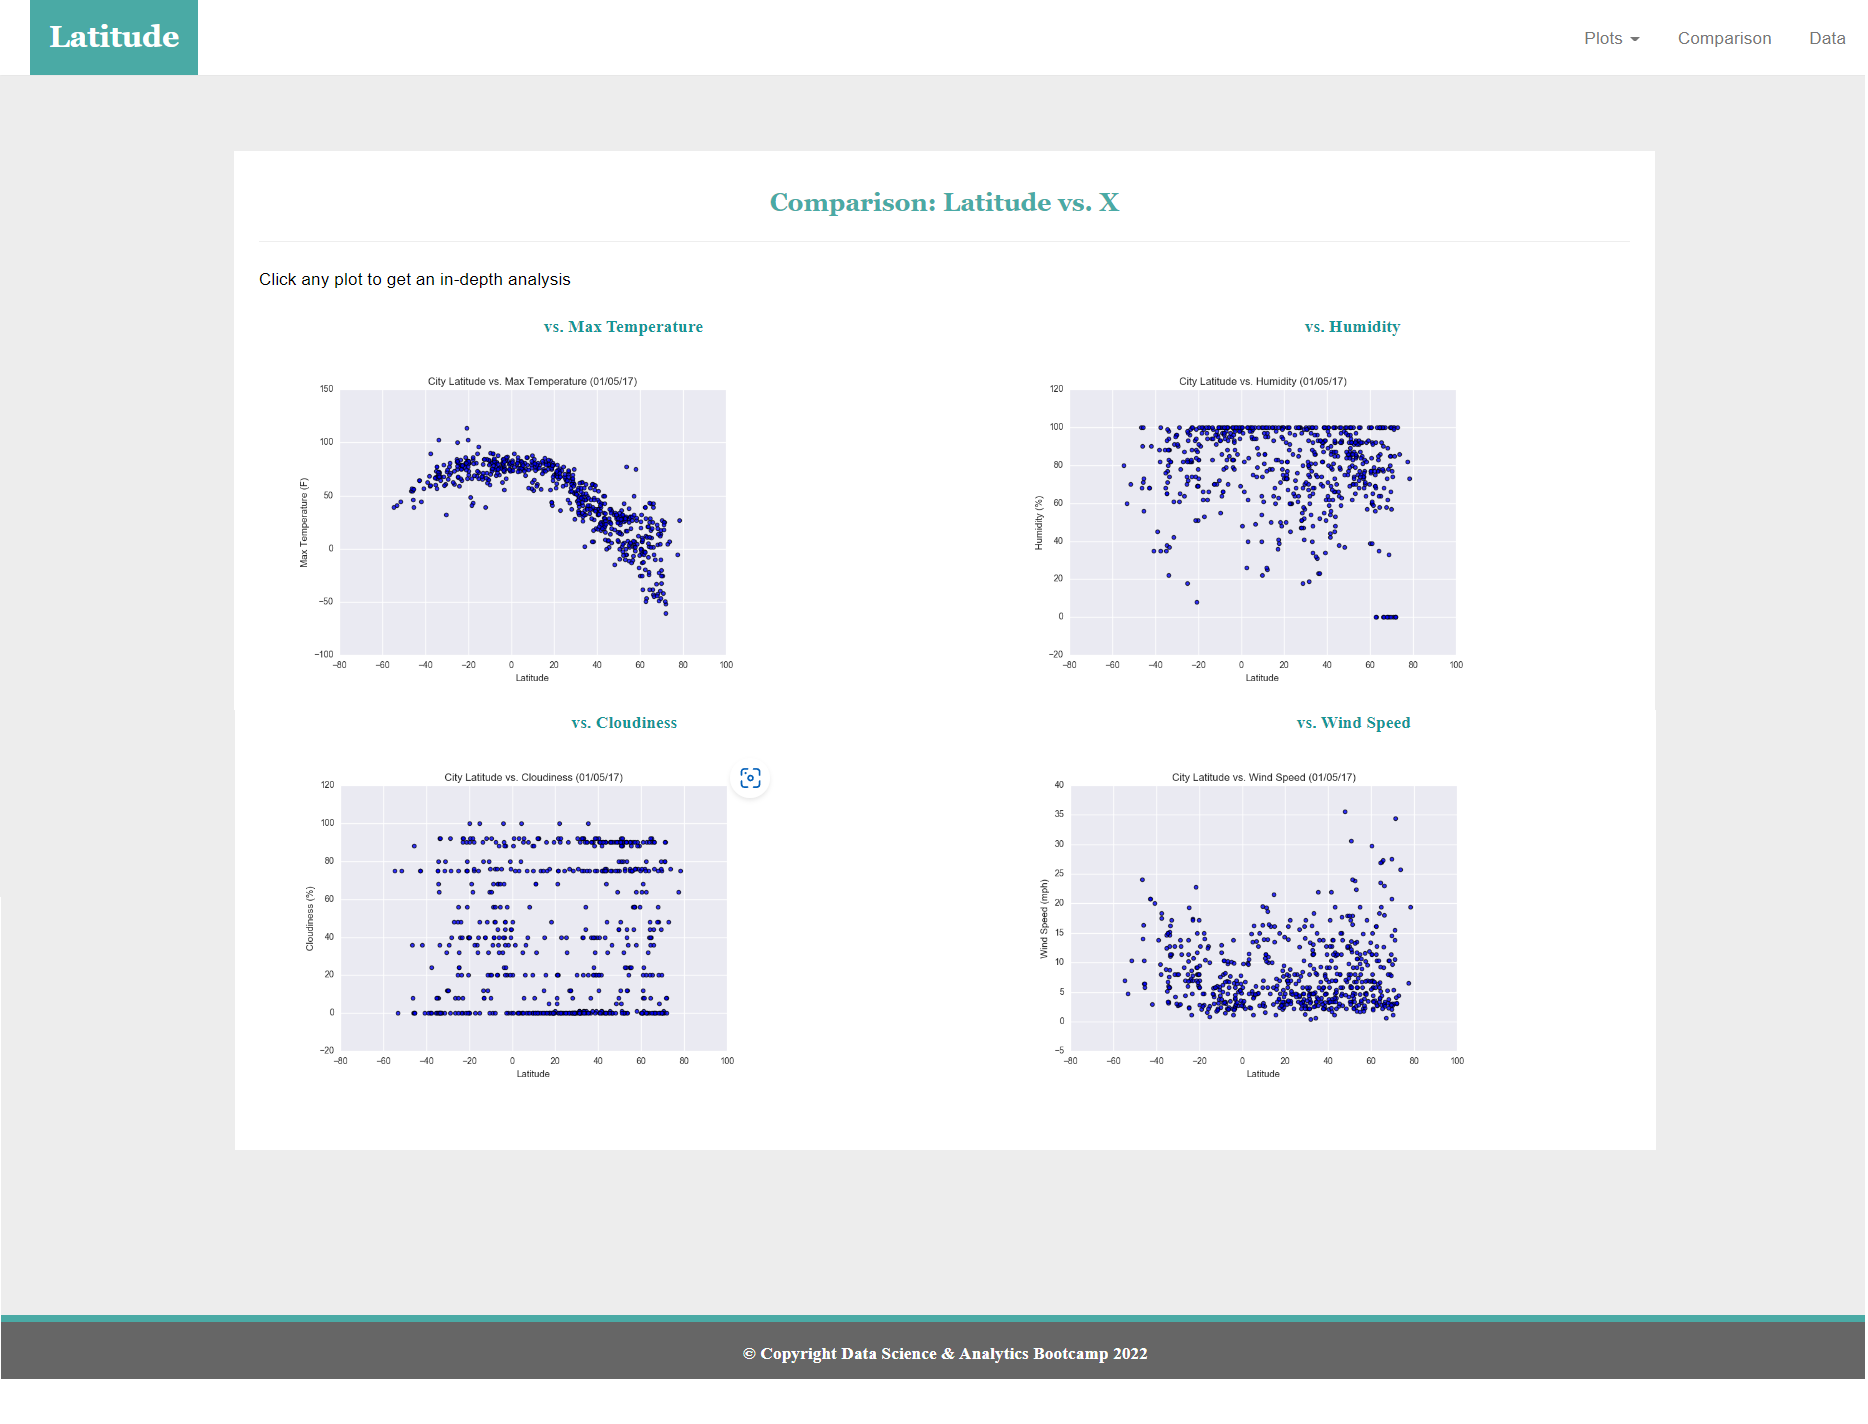
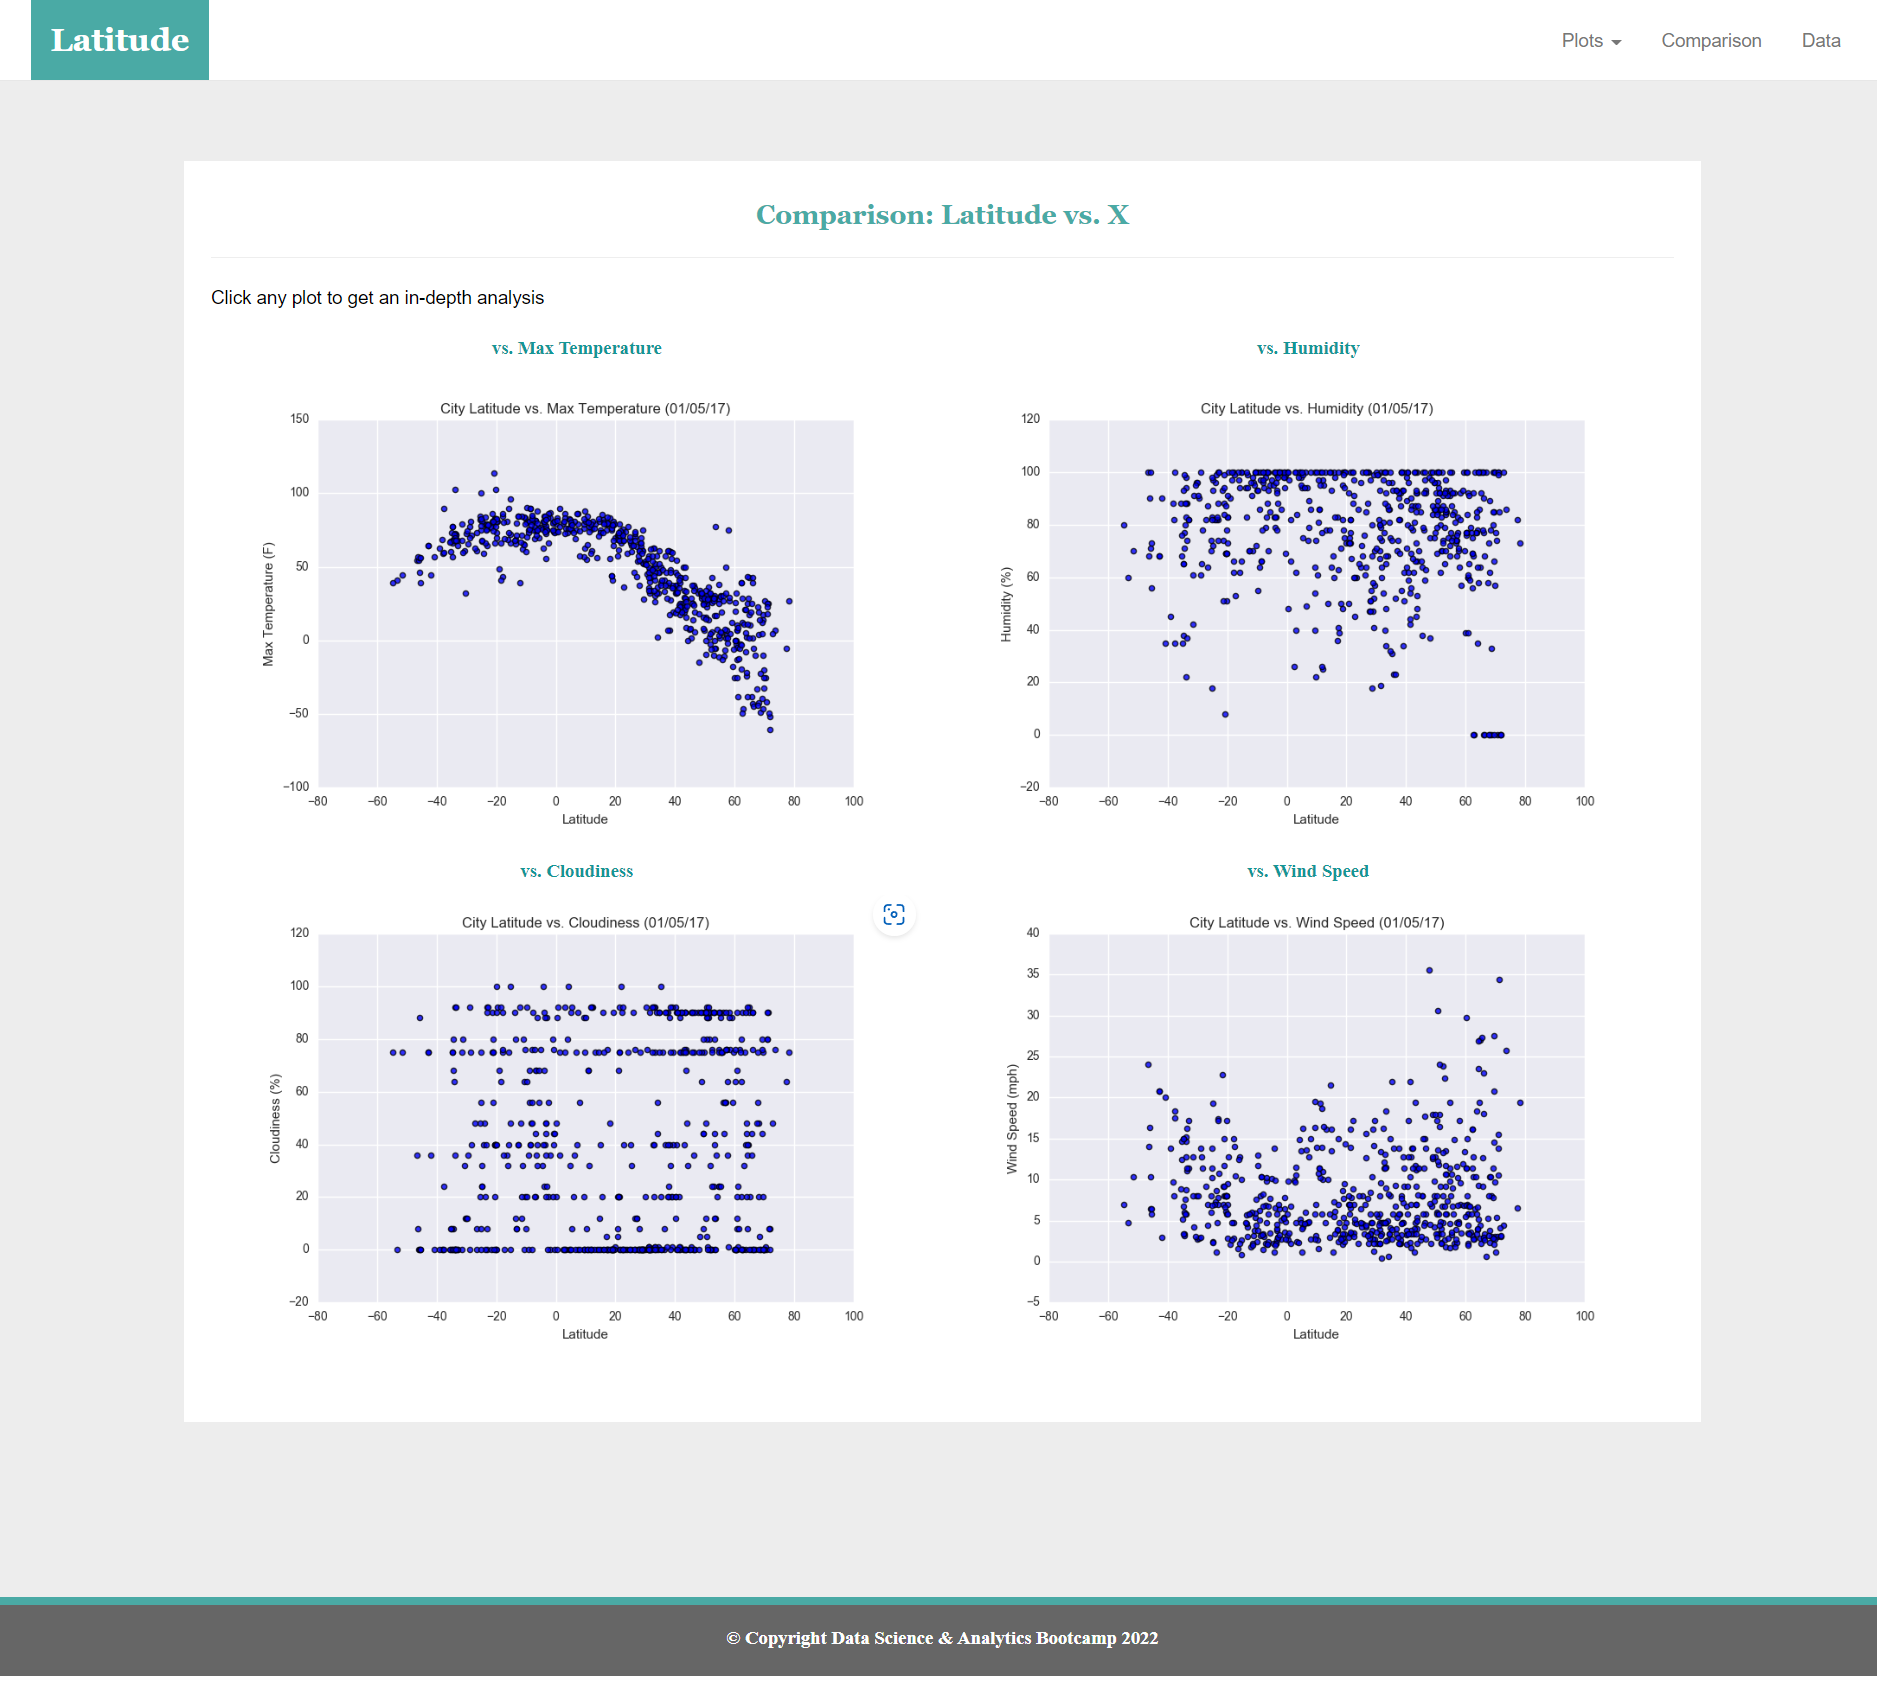
Centered title for the images

diff --git a/comparison.html b/comparison.html
@@ -58,43 +58,43 @@
 
     <!-- Start of container -->
     <div class="container">
-      <div class="row">
-          <div class="box">
+       <div class="box">
             <h3 class="comparison-header text-info">Comparison: Latitude vs. X</h3>
             <hr>
             <p style="font: size 10px;">Click any plot to get an in-depth analysis</p>
             <div class="container-fluid" style="padding-bottom: 30px;">
-            <div class="row imagetiles" > 
-                <div class="col-md-6 col-sm-12" >
+            <div class="row"> 
+                <div class="col-md-6" >
                   <h5 class="text-center">vs. Max Temperature</h5>
                   <a href="visualizations/temp.html">
-                    <img id="images" class = "img-fluid" src="assets/images/Fig1.png" alt="Max Temperature Graph" title="Lat vs. Max Temp" width="400">
+                    <img width="100%" class = "img-fluid" src="assets/images/Fig1.png" alt="Max Temperature Graph" title="Lat vs. Max Temp" width="400">
                   </a>
                 </div>
-                <div class="col-md-6 col-sm-12" >
+                <div class="col-md-6" >
                   <h5 class="text-center">vs. Humidity</h5>
                   <a href="visualizations/humidity.html">
-                    <img id="images" class = "img-fluid" src="assets/images/Fig2.png" alt="Humidity Graph" title="Lat vs. Humidity" width="400">
+                    <img width="100%" class = "img-fluid" src="assets/images/Fig2.png" alt="Humidity Graph" title="Lat vs. Humidity" width="400">
                   </a>
                 </div>
-                         
-                <div class="col-md-6 col-sm-12" >
+              </div>  
+              <div class="row">         
+                <div class="col-md-6" >
                   <h5 class="text-center">vs. Cloudiness</h5>
                   <a href="visualizations/cloudiness.html">
-                    <img id="images" class = "img-fluid" src="assets/images/Fig3.png" alt="Cloudiness Graph" title="Lat vs. Cloudiness" width="400">
+                    <img width="100%" class = "img-fluid" src="assets/images/Fig3.png" alt="Cloudiness Graph" title="Lat vs. Cloudiness" width="400">
                   </a>
                 </div>
-                <div class="col-md-6 col-sm-12" >
+                <div class="col-md-6" >
                   <h5 class="text-center">vs. Wind Speed</h5>
                   <a href="visualizations/wind.html">
-                    <img id="images" class = "img-fluid" src="assets/images/Fig4.png" alt="Wind Speed Graph" title="Lat vs. Wind Speed" width="400">
+                    <img width="100%" class = "img-fluid" src="assets/images/Fig4.png" alt="Wind Speed Graph" title="Lat vs. Wind Speed" width="400">
                   </a>
-                </div>       
+                </div>    
+              </div>   
              </div>
             </div>        
         </div>  
-      </div> 
-    </div>
+      </div>
 
     <!-- End of container -->
 
